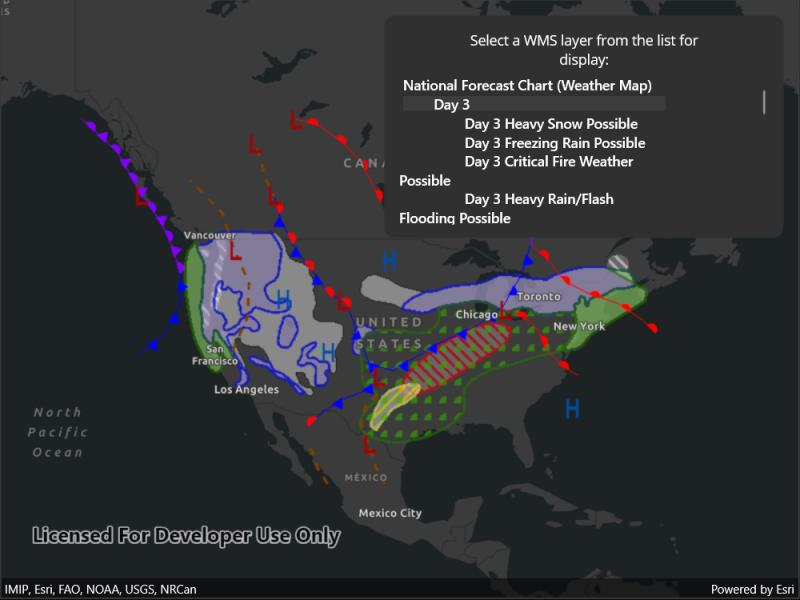
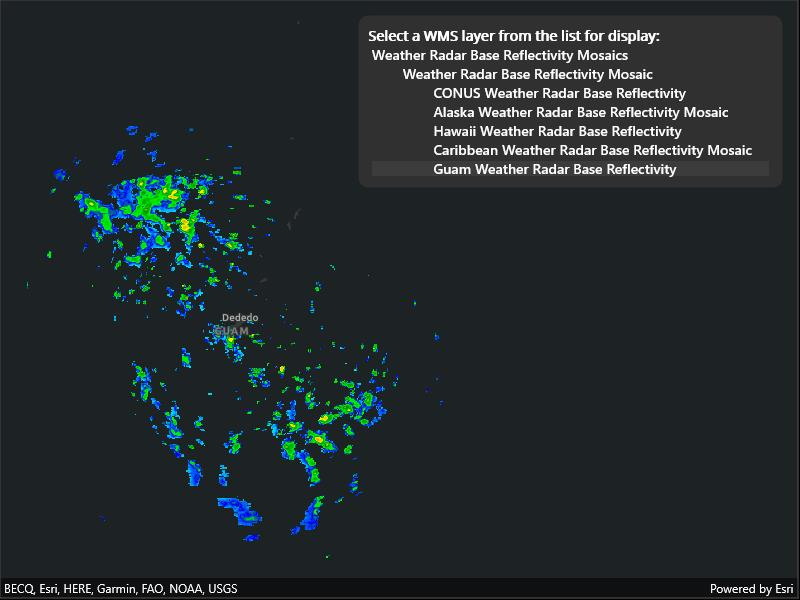
initial commit
change service, update comments, accommodate UI for longer layer titles

diff --git a/src/MAUI/Maui.Samples/Samples/Layers/WmsServiceCatalog/WmsServiceCatalog.xaml b/src/MAUI/Maui.Samples/Samples/Layers/WmsServiceCatalog/WmsServiceCatalog.xaml
@@ -4,25 +4,19 @@
              xmlns="http://schemas.microsoft.com/dotnet/2021/maui"
              xmlns:x="http://schemas.microsoft.com/winfx/2009/xaml"
              xmlns:esriUI="clr-namespace:Esri.ArcGISRuntime.Maui;assembly=Esri.ArcGISRuntime.Maui">
-    <Grid RowDefinitions="Auto, *" ColumnDefinitions="*, Auto">
+    <Grid ColumnDefinitions="*, Auto" RowDefinitions="Auto, *">
         <esriUI:MapView x:Name="MyMapView" Style="{DynamicResource EsriSampleGeoView}" />
-        <Border MinimumWidthRequest="400" Style="{DynamicResource EsriSampleControlPanel}">
-            <Grid Padding="5"
-                  RowDefinitions="auto,150"
-                  RowSpacing="5">
-                <Label Grid.Row="0"
-                       HorizontalTextAlignment="Center"
-                       Text="Select a WMS layer from the list for display:" />
-                <ListView x:Name="MyDisplayList"
-                          Grid.Row="1"
-                          ItemSelected="MyDisplayList_SelectionChanged">
+        <Border Style="{DynamicResource EsriSampleControlPanel}" WidthRequest="425">
+            <VerticalStackLayout>
+                <Label FontAttributes="Bold" Text="Select a WMS layer from the list for display:" />
+                <ListView x:Name="MyDisplayList" ItemSelected="MyDisplayList_SelectionChanged">
                     <ListView.ItemTemplate>
                         <DataTemplate>
                             <TextCell Text="{Binding Name}" />
                         </DataTemplate>
                     </ListView.ItemTemplate>
                 </ListView>
-            </Grid>
+            </VerticalStackLayout>
         </Border>
     </Grid>
 </ContentPage>

diff --git a/src/WinUI/ArcGIS.WinUI.Viewer/Samples/Layers/WmsServiceCatalog/WmsServiceCatalog.xaml b/src/WinUI/ArcGIS.WinUI.Viewer/Samples/Layers/WmsServiceCatalog/WmsServiceCatalog.xaml
@@ -11,11 +11,12 @@
                     <RowDefinition Height="*" />
                 </Grid.RowDefinitions>
                 <TextBlock Grid.Row="0" Text="Select a WMS layer from the list for display:" />
-                <!--  This is a workaround until a proper TreeView is a available for all supported UWP platforms.  -->
-                <ListBox x:Name="MyDisplayList"
-                         Grid.Row="1"
-                         SelectionChanged="ListSelectionChanged"
-                         SelectionMode="Single" />
+                <ScrollViewer HorizontalScrollBarVisibility="Visible" HorizontalScrollMode="Enabled">
+                    <ListBox x:Name="MyDisplayList"
+                             Grid.Row="1"
+                             SelectionChanged="ListSelectionChanged"
+                             SelectionMode="Single" />
+                </ScrollViewer>
             </Grid>
         </Border>
     </Grid>

diff --git a/src/MAUI/Maui.Samples/Samples/Layers/WmsServiceCatalog/WmsServiceCatalog.xaml.cs b/src/MAUI/Maui.Samples/Samples/Layers/WmsServiceCatalog/WmsServiceCatalog.xaml.cs
@@ -21,18 +21,18 @@ namespace ArcGIS.Samples.WmsServiceCatalog
         tags: new[] { "OGC", "WMS", "catalog", "web map service" })]
     public partial class WmsServiceCatalog : ContentPage
     {
-        // Hold the URL to the WMS service providing the US NOAA National Weather Service forecast weather chart
+        // Hold the URL to the WMS service providing the US NOAA National Weather Service forecast weather chart.
         private readonly Uri _wmsUrl = new Uri(
-            "https://idpgis.ncep.noaa.gov/arcgis/services/NWS_Forecasts_Guidance_Warnings/natl_fcst_wx_chart/MapServer/WMSServer?request=GetCapabilities&service=WMS");
+            "https://nowcoast.noaa.gov/geoserver/observations/weather_radar/wms?SERVICE=WMS&REQUEST=GetCapabilities");
 
-        // Hold a list of LayerDisplayVM; this is the ViewModel
+        // Hold a list of LayerDisplayVM; this is the ViewModel.
         private readonly ObservableCollection<LayerDisplayVM> _viewModelList = new ObservableCollection<LayerDisplayVM>();
 
         public WmsServiceCatalog()
         {
             InitializeComponent();
 
-            // Initialize the map
+            // Initialize the map.
             _ = Initialize();
         }
 
@@ -81,7 +81,8 @@ namespace ArcGIS.Samples.WmsServiceCatalog
             // Get a list of selected LayerInfos.
             List<WmsLayerInfo> selectedLayers = displayList.Where(vm => vm.IsEnabled).Select(vm => vm.Info).ToList();
 
-            // Only WMS layer infos without sub layers can be used to construct a WMS layer. Group layers that have sub layers must be excluded.
+            // Only WMS layer infos without sub layers can be used to construct a WMS layer.
+            // Group layers that have sub layers must be excluded.
             selectedLayers = selectedLayers.Where(info => info.LayerInfos.Count == 0).ToList();
 
             // Return if no layers selected.
@@ -121,13 +122,13 @@ namespace ArcGIS.Samples.WmsServiceCatalog
                 item.Select(false);
             }
 
-            // Hold a reference to the selected item
+            // Hold a reference to the selected item.
             LayerDisplayVM selectedItem = (LayerDisplayVM)e.SelectedItem;
 
-            // Update the selection
+            // Update the selection.
             selectedItem.Select();
 
-            // Update the map
+            // Update the map.
             _ = UpdateMapDisplay(_viewModelList);
         }
     }

diff --git a/src/WPF/WPF.Viewer/Samples/Layers/WmsServiceCatalog/WmsServiceCatalog.xaml.cs b/src/WPF/WPF.Viewer/Samples/Layers/WmsServiceCatalog/WmsServiceCatalog.xaml.cs
@@ -28,18 +28,18 @@ namespace ArcGIS.WPF.Samples.WmsServiceCatalog
         tags: new[] { "OGC", "WMS", "catalog", "web map service" })]
     public partial class WmsServiceCatalog
     {
-        // Hold the URL to the WMS service providing the US NOAA National Weather Service forecast weather chart
+        // Hold the URL to the WMS service providing the US NOAA National Weather Service forecast weather chart.
         private readonly Uri _wmsUrl = new Uri(
-            "https://idpgis.ncep.noaa.gov/arcgis/services/NWS_Forecasts_Guidance_Warnings/natl_fcst_wx_chart/MapServer/WMSServer?request=GetCapabilities&service=WMS");
+            "https://nowcoast.noaa.gov/geoserver/observations/weather_radar/wms?SERVICE=WMS&REQUEST=GetCapabilities");
 
-        // Hold a list of LayerDisplayVM; this is the ViewModel
+        // Hold a list of LayerDisplayVM; this is the ViewModel.
         private readonly ObservableCollection<LayerDisplayVM> _viewModelList = new ObservableCollection<LayerDisplayVM>();
 
         public WmsServiceCatalog()
         {
             InitializeComponent();
 
-            // Execute initialization
+            // Execute initialization.
             _ = Initialize();
         }
 
@@ -87,8 +87,9 @@ namespace ArcGIS.WPF.Samples.WmsServiceCatalog
 
             // Get a list of selected LayerInfos.
             List<WmsLayerInfo> selectedLayers = displayList.Where(vm => vm.IsEnabled).Select(vm => vm.Info).ToList();
-			
-            // Only WMS layer infos without sub layers can be used to construct a WMS layer. Group layers that have sub layers must be excluded.
+
+            // Only WMS layer infos without sub layers can be used to construct a WMS layer.
+            // Group layers that have sub layers must be excluded.
             selectedLayers = selectedLayers.Where(info => info.LayerInfos.Count == 0).ToList();
 
             // Return if no layers are selected.

diff --git a/src/WinUI/ArcGIS.WinUI.Viewer/Samples/Layers/WmsServiceCatalog/WmsServiceCatalog.xaml.cs b/src/WinUI/ArcGIS.WinUI.Viewer/Samples/Layers/WmsServiceCatalog/WmsServiceCatalog.xaml.cs
@@ -27,7 +27,7 @@ namespace ArcGIS.WinUI.Samples.WmsServiceCatalog
     {
         // Hold the URL to the WMS service providing the US NOAA National Weather Service forecast weather chart.
         private readonly Uri _wmsUrl = new Uri(
-            "https://idpgis.ncep.noaa.gov/arcgis/services/NWS_Forecasts_Guidance_Warnings/natl_fcst_wx_chart/MapServer/WMSServer?request=GetCapabilities&service=WMS");
+            "https://nowcoast.noaa.gov/geoserver/observations/weather_radar/wms?SERVICE=WMS&REQUEST=GetCapabilities");
 
         // Hold a list of LayerDisplayVM; this is the ViewModel.
         private ObservableCollection<LayerDisplayVM> _viewModelList = new ObservableCollection<LayerDisplayVM>();
@@ -83,8 +83,9 @@ namespace ArcGIS.WinUI.Samples.WmsServiceCatalog
 
             // Get a list of selected LayerInfos.
             List<WmsLayerInfo> selectedLayers = displayList.Where(vm => vm.IsEnabled).Select(vm => vm.Info).ToList();
-			
-            // Only WMS layer infos without sub layers can be used to construct a WMS layer. Group layers that have sub layers must be excluded.
+
+            // Only WMS layer infos without sub layers can be used to construct a WMS layer.
+            // Group layers that have sub layers must be excluded.
             selectedLayers = selectedLayers.Where(info => info.LayerInfos.Count == 0).ToList();
 
             // Return if no layers selected.

diff --git a/src/MAUI/Maui.Samples/Samples/Layers/WmsServiceCatalog/readme.md b/src/MAUI/Maui.Samples/Samples/Layers/WmsServiceCatalog/readme.md
@@ -31,7 +31,7 @@ WMS services often contain many layers and sublayers. Presenting the layers and 
 
 ## About the data
 
-This sample shows [forecasts guidance warnings](https://idpgis.ncep.noaa.gov/arcgis/rest/services/NWS_Forecasts_Guidance_Warnings/natl_fcst_wx_chart/MapServer) from an ArcGIS REST service produced by the U.S. National Weather Service. The map shows fronts, highs, and lows, as well as areas of forecast precipitation.
+This sample shows [forecasts guidance warnings](https://nowcoast.noaa.gov/geoserver/observations/weather_radar/wms?SERVICE=WMS&REQUEST=GetCapabilities) from an ArcGIS REST service produced by the US NOAA National Weather Service. The map shows fronts, highs, and lows, as well as areas of forecast precipitation.
 
 ## Tags
 

diff --git a/src/WPF/WPF.Viewer/Samples/Layers/WmsServiceCatalog/readme.md b/src/WPF/WPF.Viewer/Samples/Layers/WmsServiceCatalog/readme.md
@@ -31,7 +31,7 @@ WMS services often contain many layers and sublayers. Presenting the layers and 
 
 ## About the data
 
-This sample shows [forecasts guidance warnings](https://idpgis.ncep.noaa.gov/arcgis/rest/services/NWS_Forecasts_Guidance_Warnings/natl_fcst_wx_chart/MapServer) from an ArcGIS REST service produced by the U.S. National Weather Service. The map shows fronts, highs, and lows, as well as areas of forecast precipitation.
+This sample shows [forecasts guidance warnings](https://nowcoast.noaa.gov/geoserver/observations/weather_radar/wms?SERVICE=WMS&REQUEST=GetCapabilities) from an ArcGIS REST service produced by the US NOAA National Weather Service. The map shows fronts, highs, and lows, as well as areas of forecast precipitation.
 
 ## Tags
 

diff --git a/src/WinUI/ArcGIS.WinUI.Viewer/Samples/Layers/WmsServiceCatalog/readme.md b/src/WinUI/ArcGIS.WinUI.Viewer/Samples/Layers/WmsServiceCatalog/readme.md
@@ -31,7 +31,7 @@ WMS services often contain many layers and sublayers. Presenting the layers and 
 
 ## About the data
 
-This sample shows [forecasts guidance warnings](https://idpgis.ncep.noaa.gov/arcgis/rest/services/NWS_Forecasts_Guidance_Warnings/natl_fcst_wx_chart/MapServer) from an ArcGIS REST service produced by the U.S. National Weather Service. The map shows fronts, highs, and lows, as well as areas of forecast precipitation.
+This sample shows [forecasts guidance warnings](https://nowcoast.noaa.gov/geoserver/observations/weather_radar/wms?SERVICE=WMS&REQUEST=GetCapabilities) from an ArcGIS REST service produced by the US NOAA National Weather Service. The map shows fronts, highs, and lows, as well as areas of forecast precipitation.
 
 ## Tags
 
